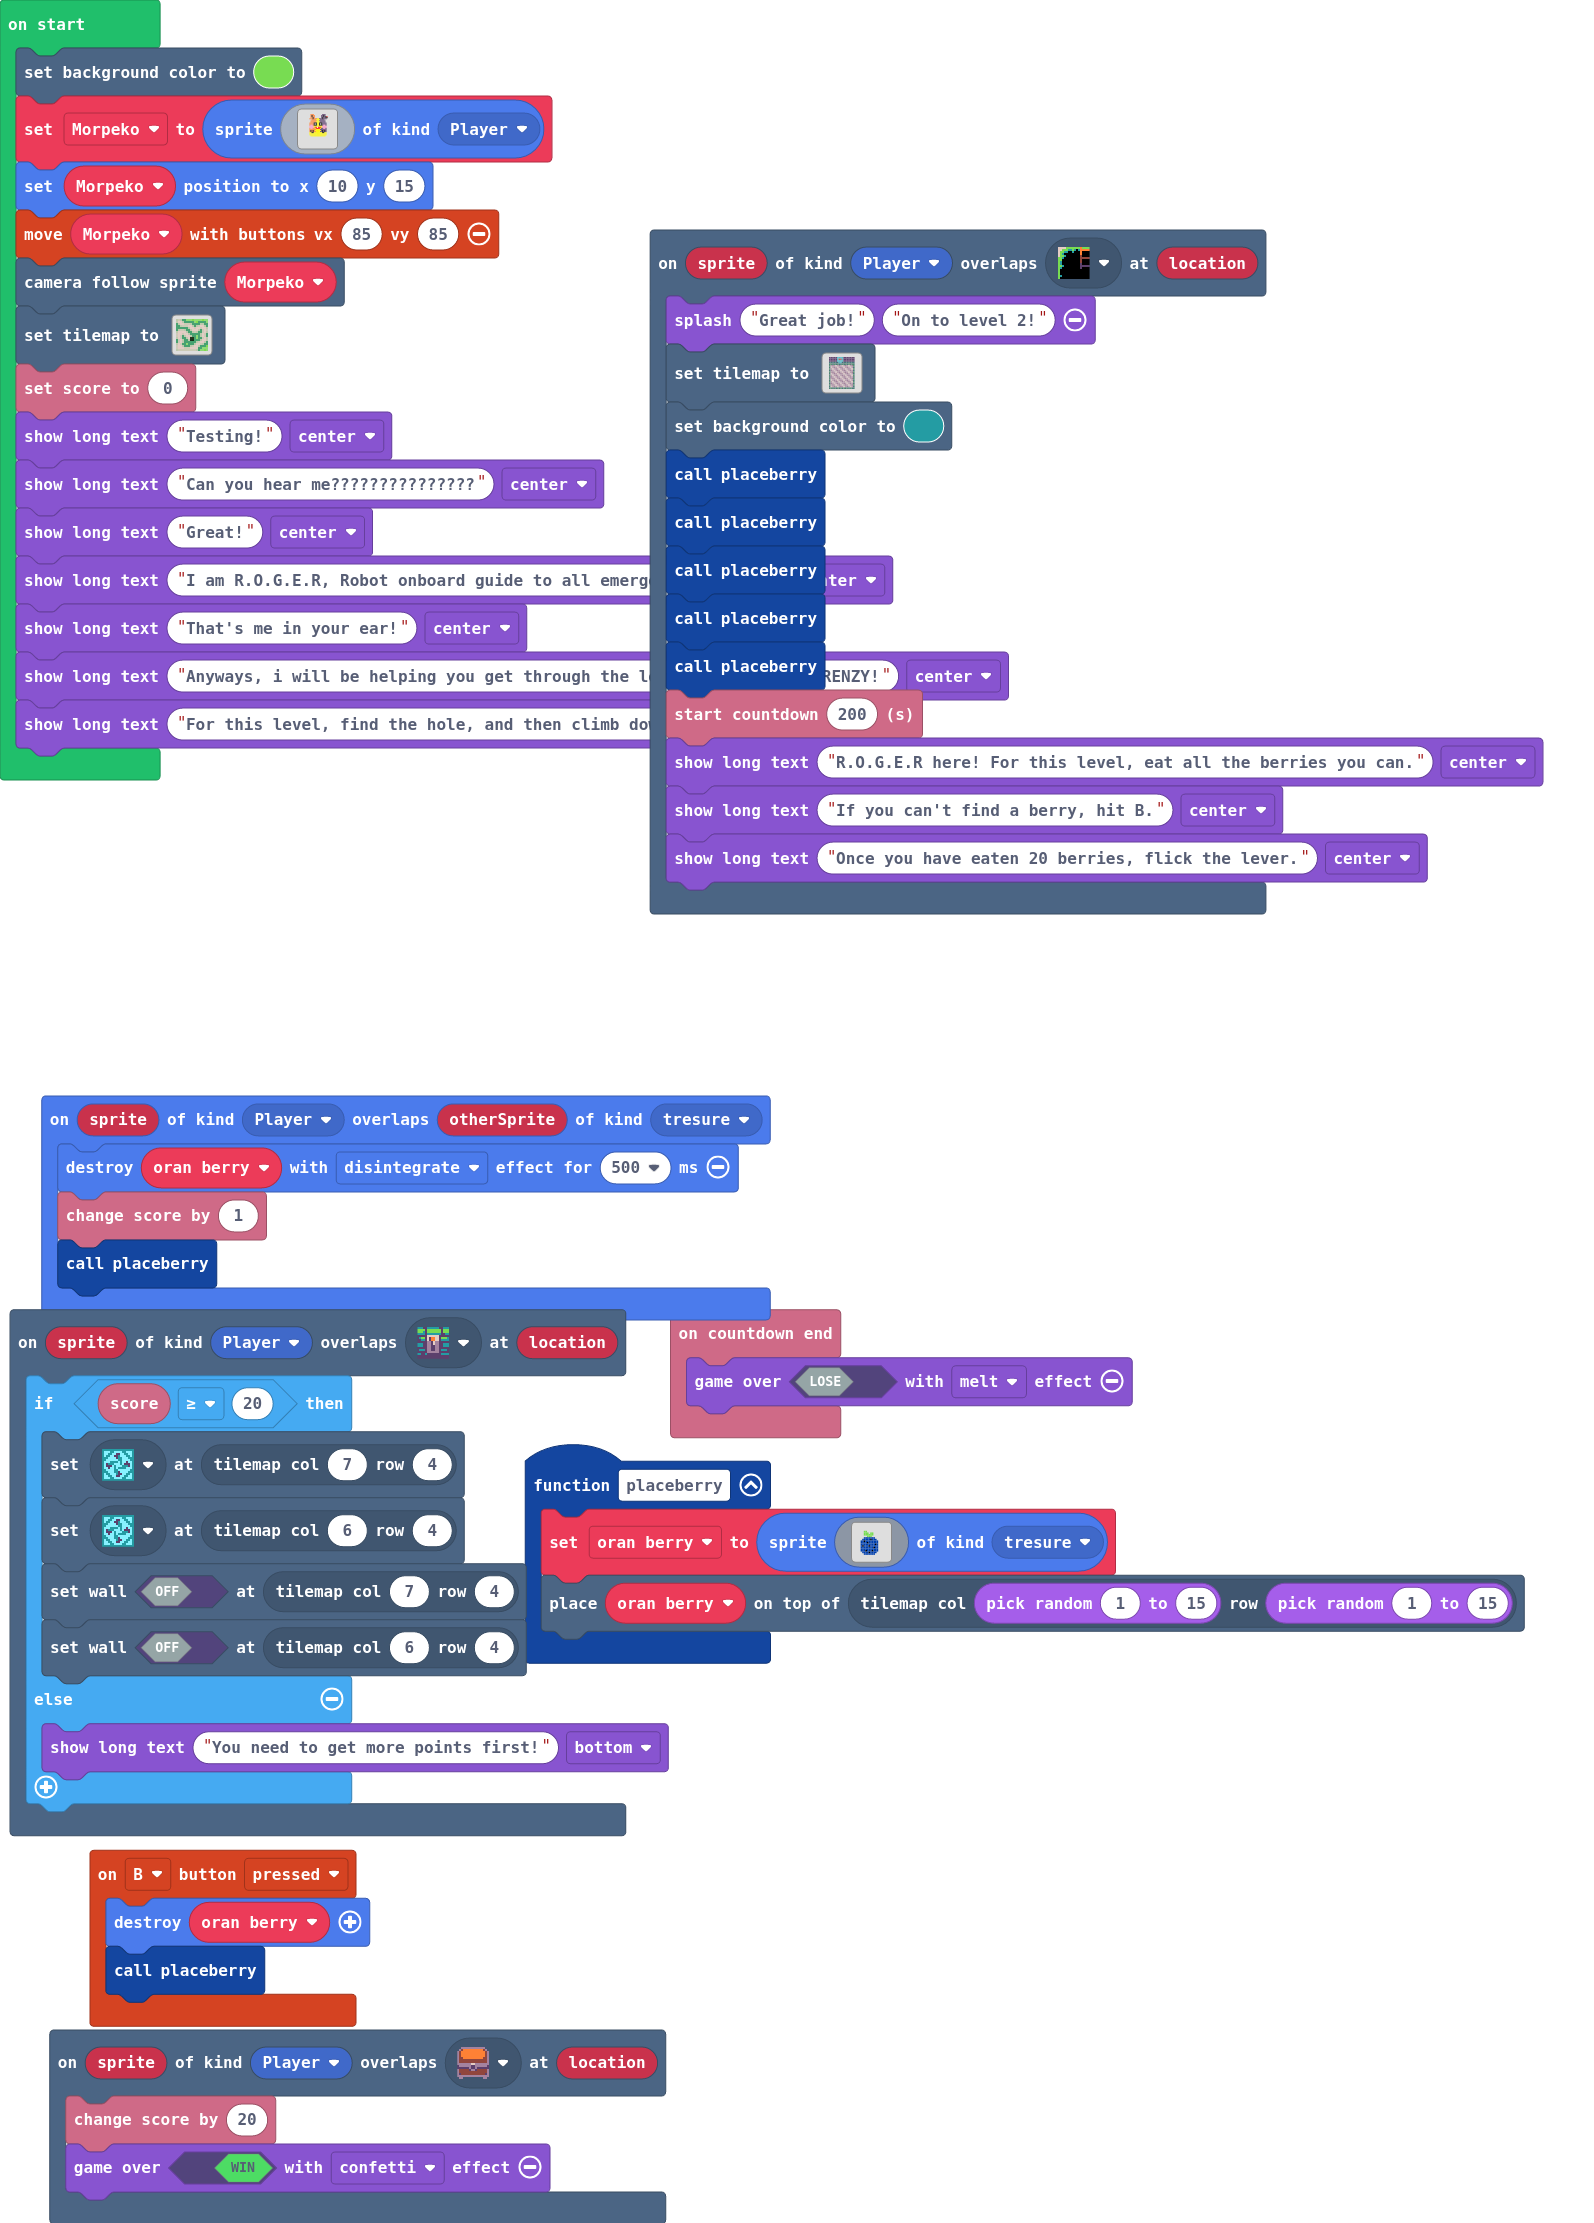
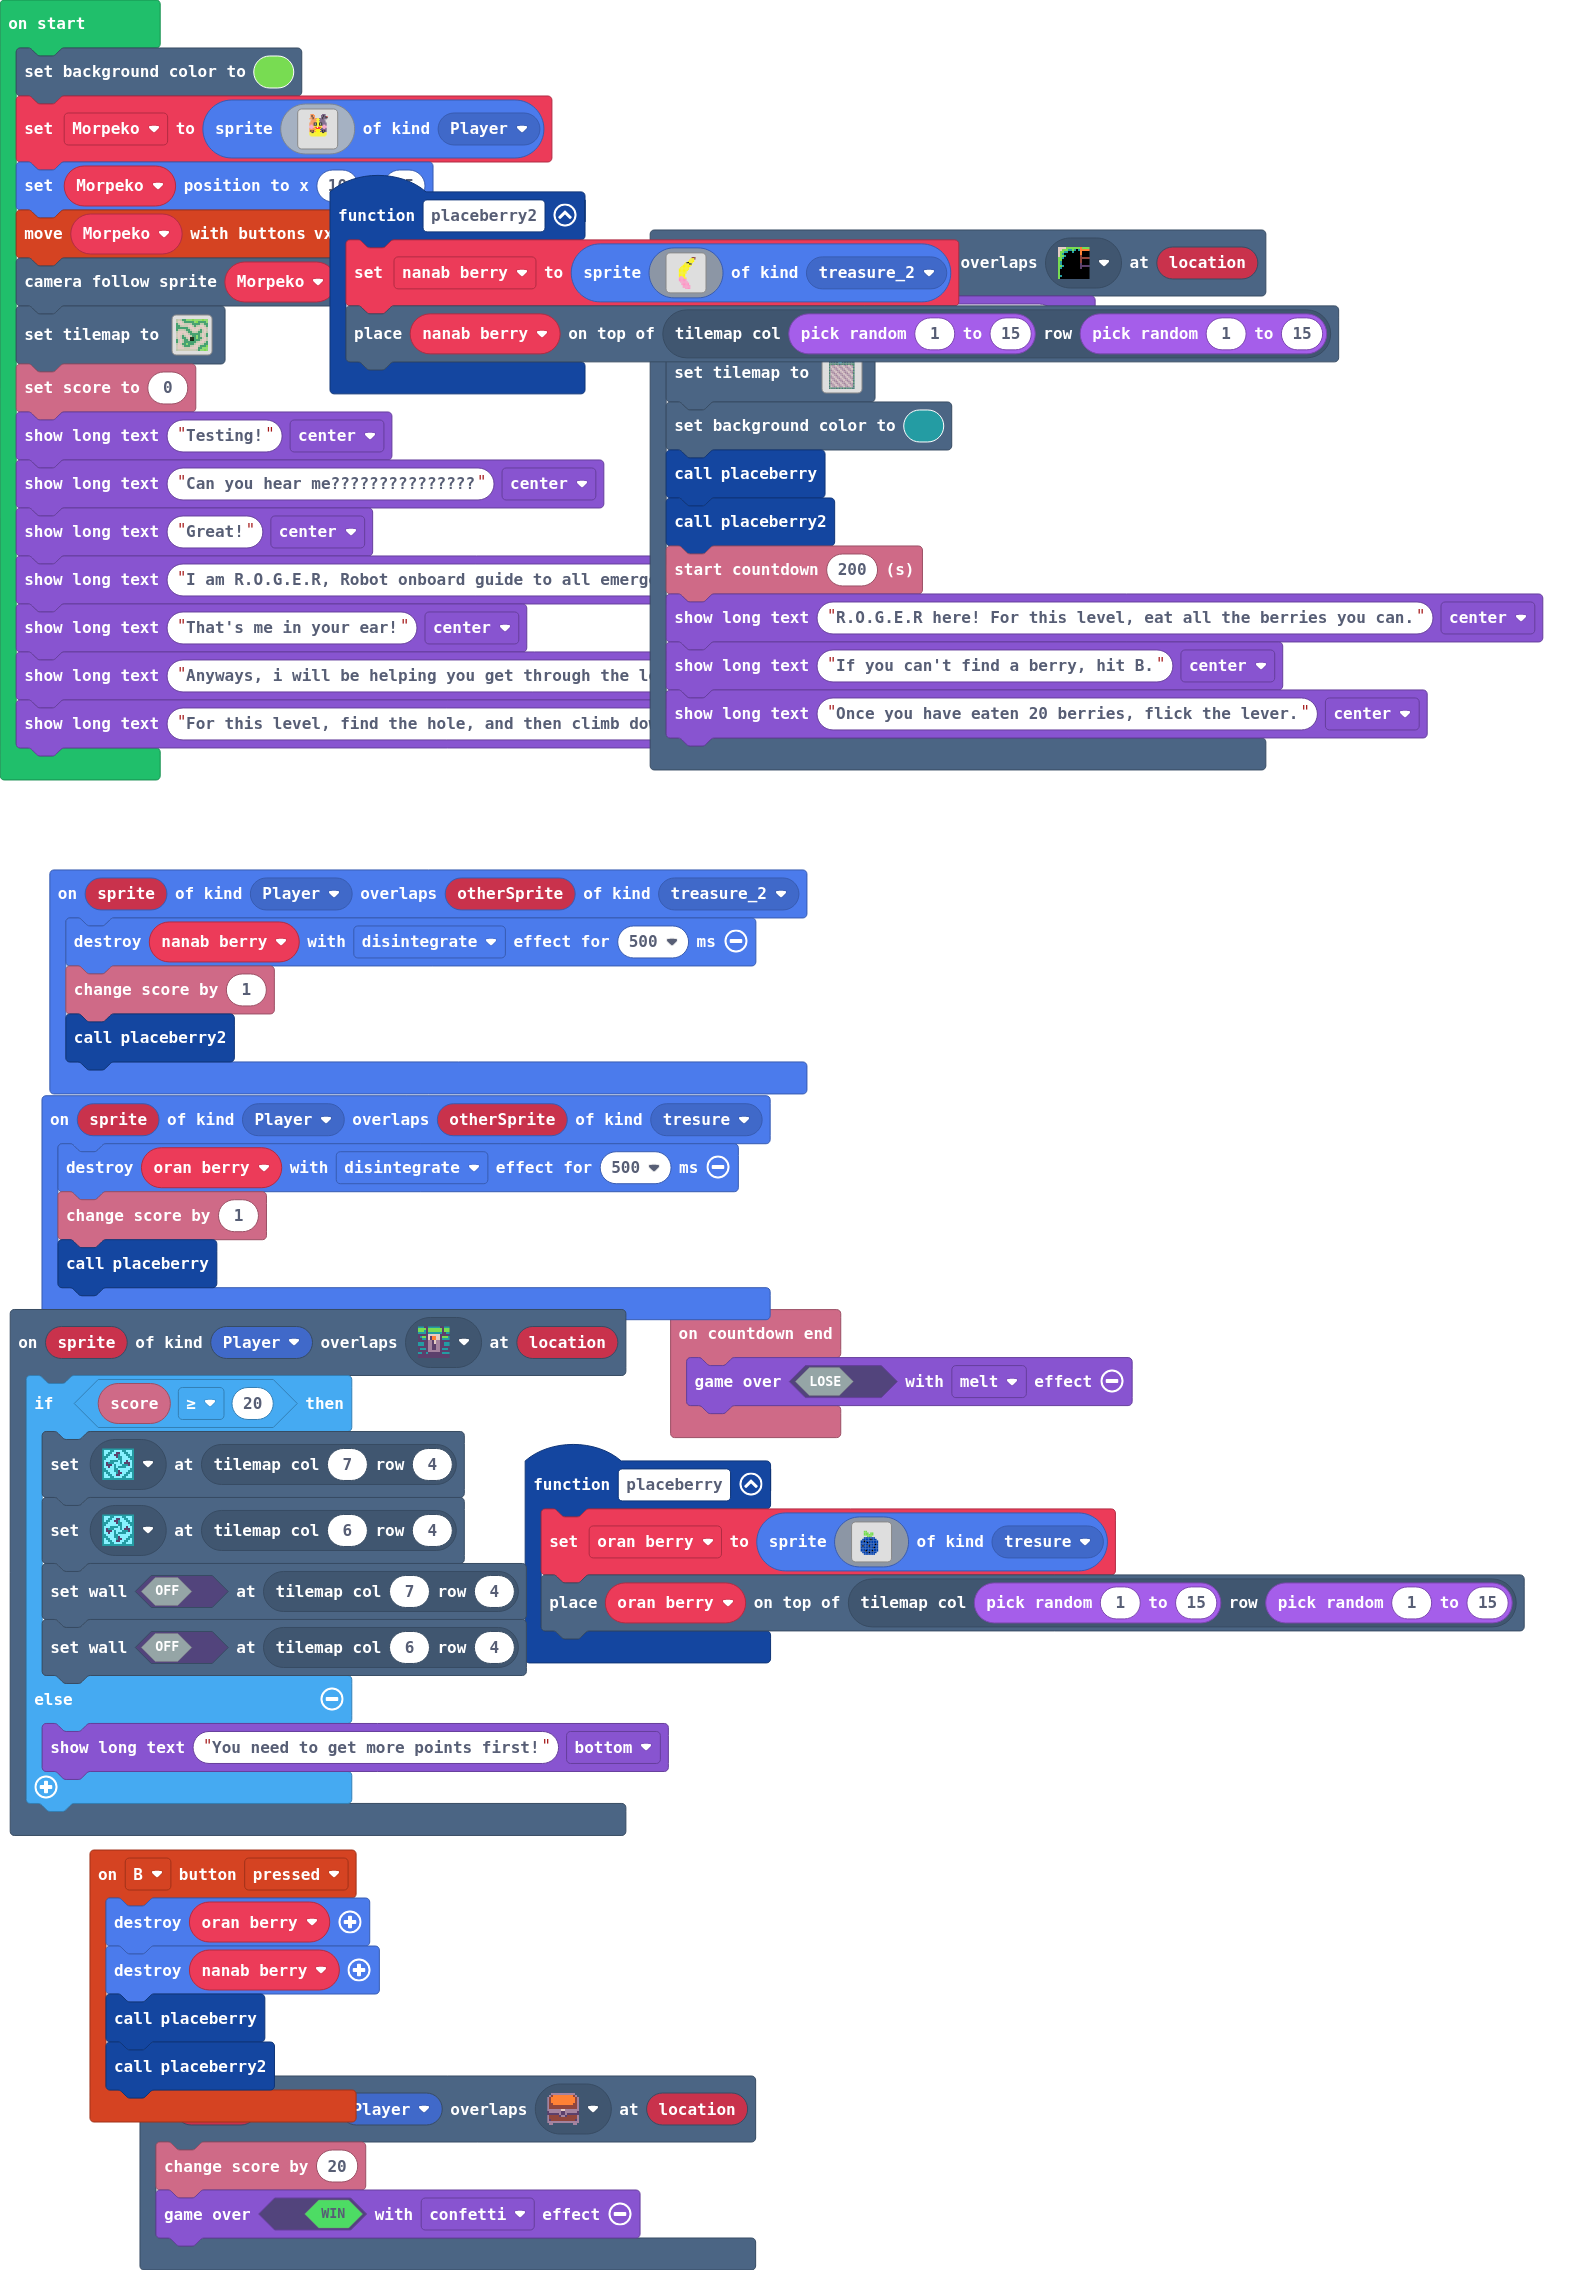
nanab berrys

diff --git a/main.ts b/main.ts
@@ -1,15 +1,13 @@
 namespace SpriteKind {
     export const tresure = SpriteKind.create()
+    export const treasure_2 = SpriteKind.create()
 }
 scene.onOverlapTile(SpriteKind.Player, assets.tile`myTile0`, function (sprite, location) {
     game.splash("Great job!", "On to level 2!")
     tiles.setTilemap(tilemap`level2`)
     scene.setBackgroundColor(6)
     placeberry()
-    placeberry()
-    placeberry()
-    placeberry()
-    placeberry()
+    placeberry2()
     info.startCountdown(200)
     game.showLongText("R.O.G.E.R here! For this level, eat all the berries you can.", DialogLayout.Center)
     game.showLongText("If you can't find a berry, hit B.", DialogLayout.Center)
@@ -17,7 +15,9 @@ scene.onOverlapTile(SpriteKind.Player, assets.tile`myTile0`, function (sprite, l
 })
 controller.B.onEvent(ControllerButtonEvent.Pressed, function () {
     oran_berry.destroy()
+    nanab_berry.destroy()
     placeberry()
+    placeberry2()
 })
 scene.onOverlapTile(SpriteKind.Player, sprites.dungeon.greenSwitchUp, function (sprite, location) {
     if (info.score() >= 20) {
@@ -34,6 +34,36 @@ sprites.onOverlap(SpriteKind.Player, SpriteKind.tresure, function (sprite, other
     info.changeScoreBy(1)
     placeberry()
 })
+function placeberry2 () {
+    nanab_berry = sprites.create(img`
+        .............eee
+        ............555e
+        ...........5555.
+        ..........55555.
+        ........5ff555..
+        .......5555ff...
+        ......5555555...
+        .....5555555....
+        ....5555555.....
+        ...55555555.....
+        ...5555555......
+        ...555555.......
+        ...555555.......
+        ...55555........
+        ...55555........
+        ...53355........
+        ...333355.......
+        ...333333.......
+        ...333333.......
+        ....333333......
+        .....333333.....
+        .....333333.....
+        ......333333....
+        ......333333....
+        ........3333....
+        `, SpriteKind.treasure_2)
+    tiles.placeOnTile(nanab_berry, tiles.getTileLocation(randint(1, 15), randint(1, 15)))
+}
 info.onCountdownEnd(function () {
     game.over(false, effects.melt)
 })
@@ -66,6 +96,12 @@ function placeberry () {
         `, SpriteKind.tresure)
     tiles.placeOnTile(oran_berry, tiles.getTileLocation(randint(1, 15), randint(1, 15)))
 }
+sprites.onOverlap(SpriteKind.Player, SpriteKind.treasure_2, function (sprite, otherSprite) {
+    nanab_berry.destroy(effects.disintegrate, 500)
+    info.changeScoreBy(1)
+    placeberry2()
+})
+let nanab_berry: Sprite = null
 let oran_berry: Sprite = null
 scene.setBackgroundColor(7)
 let Morpeko = sprites.create(assets.image`Morpeko`, SpriteKind.Player)
